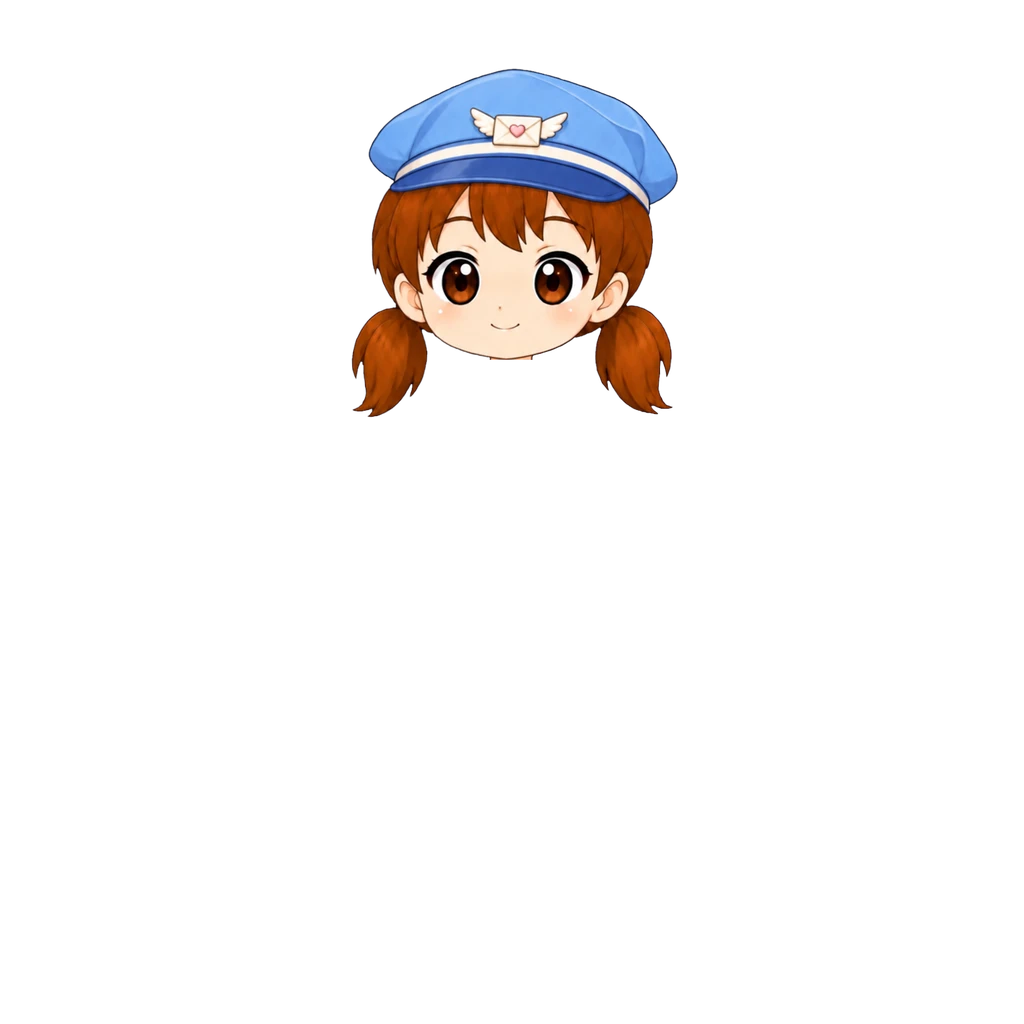
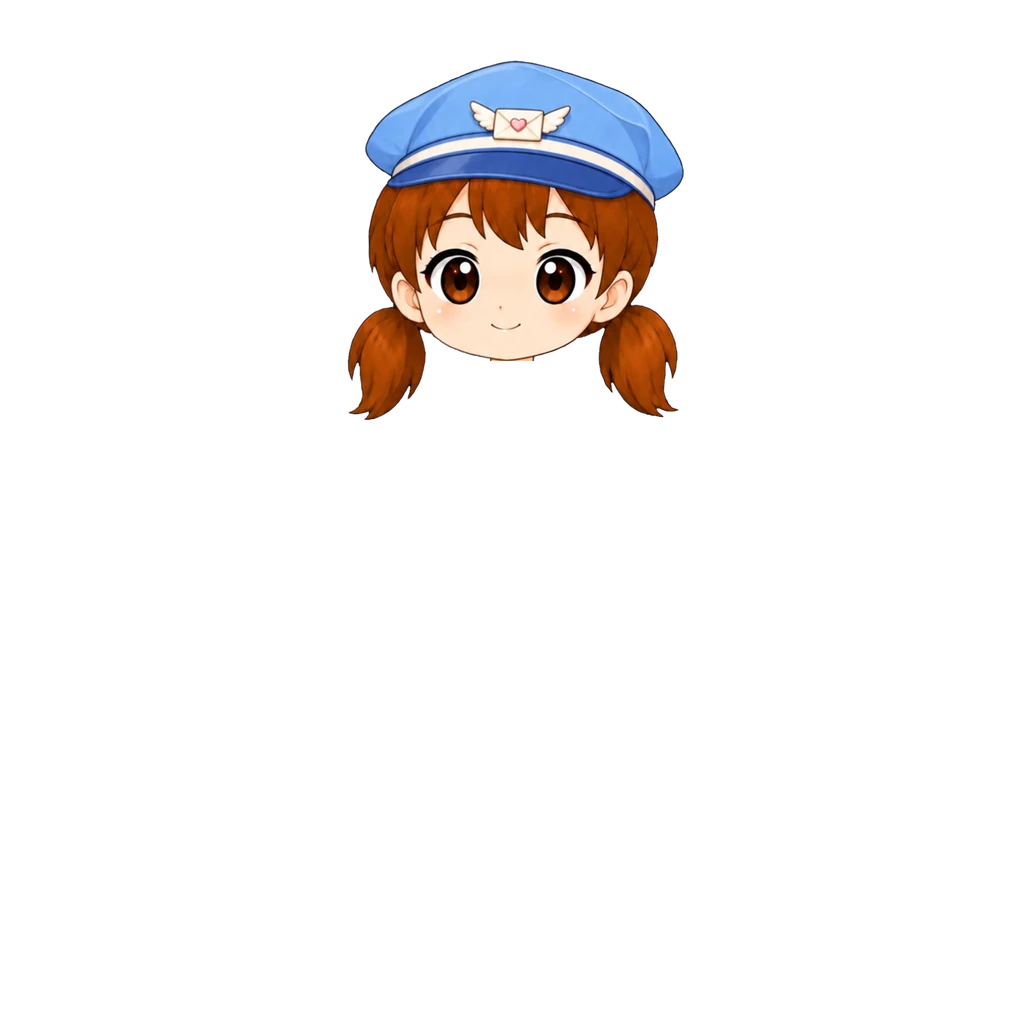
우편부 모자(여아) 3% 크게·오른쪽 1 (#875)
턱·얼굴 가운데 고정으로 배율 0.668→0.688 후 오른쪽 1. img ?v=2.

Claude-Session: https://claude.ai/code/session_018maNuYqDfFyRSe9uKpZhPR

Changed region(s): [[0.3438, 0.0625, 0.6875, 0.4062], [0.3438, 0.3125, 0.4062, 0.4062], [0.4688, 0.3438, 0.5312, 0.375]]

diff --git a/src/data/avatarEquipment.js b/src/data/avatarEquipment.js
@@ -226,8 +226,9 @@ export const AVATAR_CATALOG = [
   { id: "hat_pirate",     slot: "hat",   label: "꼬마해적 모자",   emoji: "🏴☠", price:DECOR_PRICE.epic, rarity: "epic", theme: "pirate", forGender: "girl", hidesHead: true, img: "assets/avatar/hat/pirate-hat-girl.webp?v=5", thumb: "assets/avatar/thumb/hat_pirate.webp" },
   /* 우편부 모자 [2026-10-04] — 여아. 파란 우편모(날개 편지 배지) + 얼굴·양갈래 머리 한 장(사용자 원화 490×524). 파랑 우편부 옷과 짝.
      들꽃 머리띠와 같은 방식(hidesHead) — 얼굴 템플릿 매칭(일치 0.916)으로 배율 0.668, 원점 (351,68). 아래는 자르지 않음.
-     탑재 상자 (351,68,678,418). */
-  { id: "hat_post_girl",  slot: "hat",   label: "우편부 모자", emoji: "💌", price:DECOR_PRICE.rare, rarity: "rare", theme: "common", forGender: "girl", hidesHead: true, img: "assets/avatar/hat/post-cap-girl.webp", thumb: "assets/avatar/thumb/hat_post_girl.webp" },
+     탑재 상자 (351,68,678,418).
+     [2026-10-04] 사용자 조정 — 3% 크게(배율 0.688, 턱 y345·얼굴 가운데 고정) 후 오른쪽으로 1, 원점 (347,60). 탑재 상자 (347,60,684,421). img ?v=2. */
+  { id: "hat_post_girl",  slot: "hat",   label: "우편부 모자", emoji: "💌", price:DECOR_PRICE.rare, rarity: "rare", theme: "common", forGender: "girl", hidesHead: true, img: "assets/avatar/hat/post-cap-girl.webp?v=2", thumb: "assets/avatar/thumb/hat_post_girl.webp" },
   /* 남아 사파리 모자 [2026-10-02] — 모자+얼굴 한 장(사용자 원화)이라 hidesHead: 쓰면 머리카락 머리 장이 빠지고
      민머리 위에 얹힌다(베이스 v10 구조). 얼굴(눈~입) 템플릿 매칭으로 맞춤(배율 0.4065 · 일치 0.970).
      원화에 달린 목은 z50 이라 높은 깃(우주복·후드·도토리)을 덮어서 기본 머리 장처럼 y404 에서 잘랐다. */

diff --git a/art-src/README.md b/art-src/README.md
@@ -605,4 +605,4 @@ bbox로 여백만 잘라내고 배포본은 높이 480px로 축소했다(전부 
 | lightning-cap-boy-src.webp | **번개 캡모자 원화 남아 — 모자+얼굴 한 장 (사용자 원화 2026-10-04)** — 589×500 투명 배경, 청록 캡(뒤로 쓴 챙·형광 번개). 사파리 모자처럼 hidesHead 로 기본 머리를 대신한다. 얼굴 템플릿 매칭(일치 0.956)으로 배율 0.644·원점 (336,76), y404 아래 자름. 탑재 상자 (336,76,715,398). **[2026-10-04 조정]** 아래로 1(원점 (336,77)) · img ?v=2. 다시 아래로 1(원점 (336,78)) · img ?v=3. 머리 3% 크게(배율 0.6633, 턱·가운데 고정, 원점 (331,68)) · img ?v=4. 다시 2% 크게(0.6766, 원점 (327,61)) · img ?v=5. 왼쪽 2·아래로 1(원점 (325,62)) · img ?v=6. 상점 그림은 원화를 세로 160px 로 | avatar/hat/lightning-cap-boy.webp · thumb/hat_cap_boy.webp |
 | summer-visor-boy-src.webp | **썸머 썬캡 원화 남아 — 모자+얼굴 한 장 (사용자 원화 2026-10-04)** — 520×456 투명 배경, 주황 썬캡(조개 장식). hidesHead 로 기본 머리를 대신한다. 얼굴 템플릿 매칭(일치 0.953)으로 배율 0.676·원점 (339,83), y404 아래 자름. 탑재 상자 (339,83,691,391). **[2026-10-04 조정]** 2% 크게(0.6895)·아래로 5, 원점 (335,82) · img ?v=2. 다시 아래로 3(원점 (335,85)) · img ?v=3. 상점 그림은 원화를 세로 160px 로 | avatar/hat/summer-visor-boy.webp · thumb/hat_visor_boy.webp |
 | pirate-hat-boy-src.webp | **해적 모자 원화 남아 — 모자+얼굴 한 장 (사용자 원화 2026-10-04)** — 574×475 투명 배경, 남색 삼각 해적모(금 테두리·해골). hidesHead 로 기본 머리를 대신한다. 얼굴 템플릿 매칭(일치 0.972)으로 배율 0.712·원점 (318,58), y404 아래 자름. 탑재 상자 (318,58,727,396). **[2026-10-04 조정]** 아래로 4·왼쪽 1(원점 (317,62)) · img ?v=2. 상점 그림은 원화를 세로 160px 로 | avatar/hat/pirate-hat-boy.webp · thumb/hat_pirate_boy.webp |
-| post-cap-girl-src.webp | **우편부 모자 원화 여아 — 모자+얼굴 한 장 (사용자 원화 2026-10-04)** — 파란 우편모(날개 편지 배지) + 얼굴·양갈래 머리. hidesHead 로 여아 기본 머리를 대신한다. 얼굴 템플릿 매칭(일치 0.916)으로 배율 0.668·원점 (351,68), 아래는 자르지 않음. 탑재 상자 (351,68,678,418). 상점 그림은 원화를 세로 160px 로 | avatar/hat/post-cap-girl.webp · thumb/hat_post_girl.webp |
+| post-cap-girl-src.webp | **우편부 모자 원화 여아 — 모자+얼굴 한 장 (사용자 원화 2026-10-04)** — 파란 우편모(날개 편지 배지) + 얼굴·양갈래 머리. hidesHead 로 여아 기본 머리를 대신한다. 얼굴 템플릿 매칭(일치 0.916)으로 배율 0.668·원점 (351,68), 아래는 자르지 않음. 탑재 상자 (351,68,678,418). **[2026-10-04 조정]** 3% 크게(0.688)·오른쪽 1, 원점 (347,60) · img ?v=2. 상점 그림은 원화를 세로 160px 로 | avatar/hat/post-cap-girl.webp · thumb/hat_post_girl.webp |
